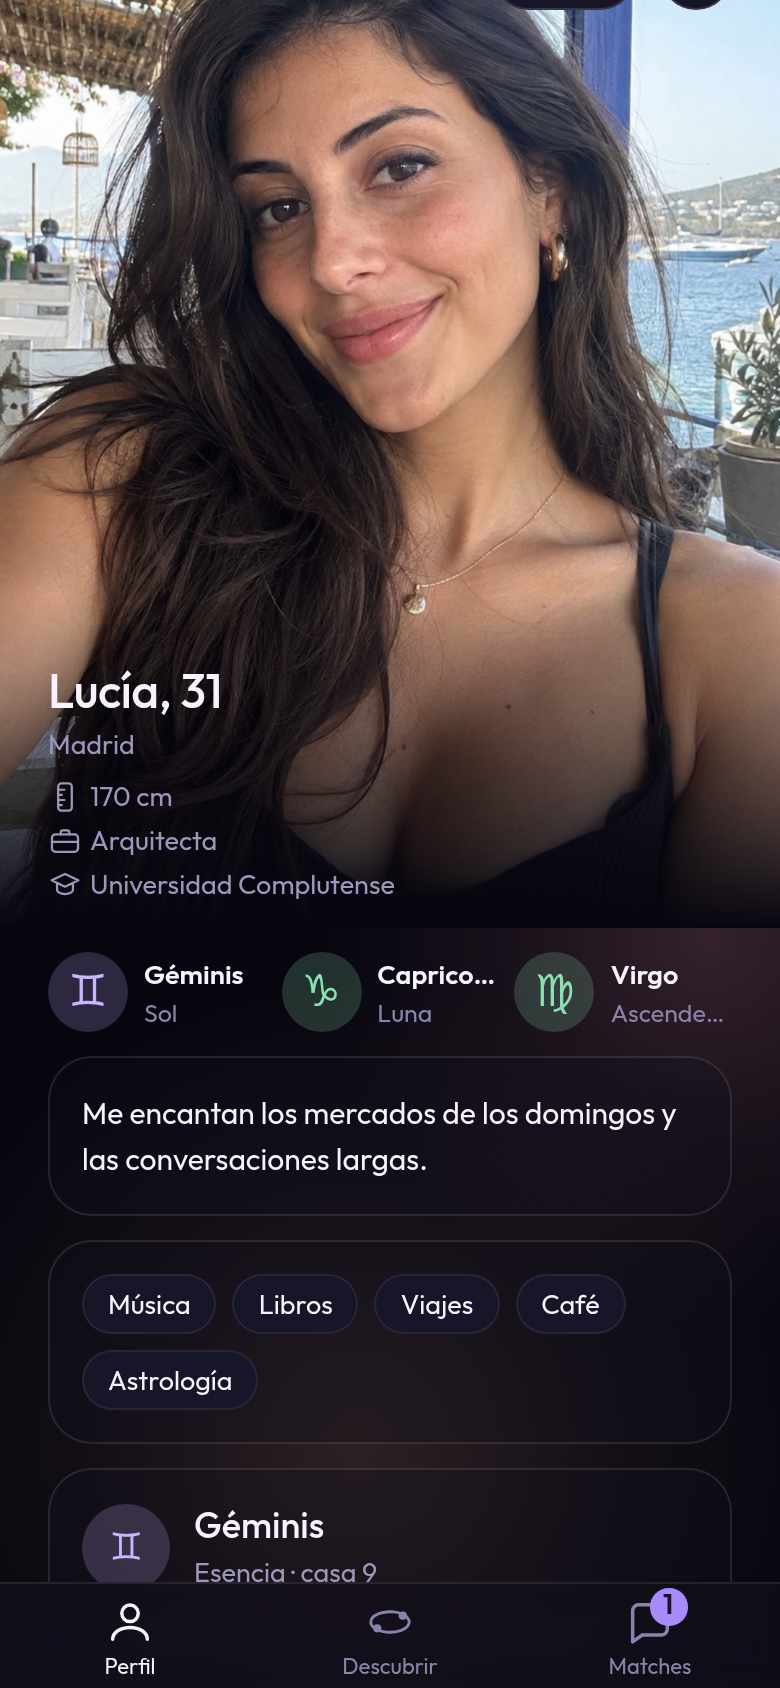
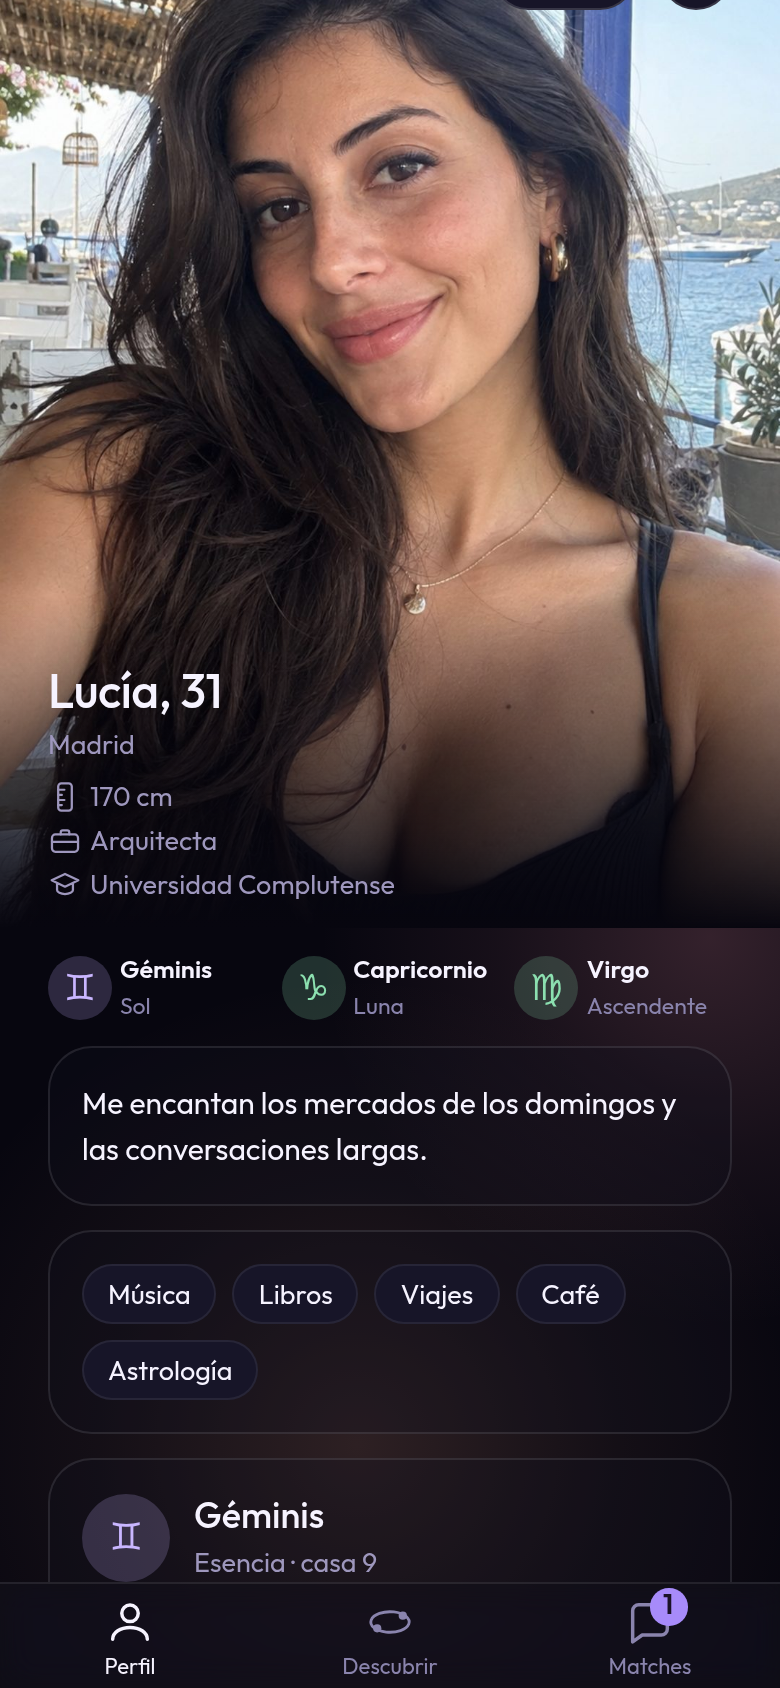
Spanish screenshots with the smaller big-three row; its narrow widths
The English branch now carries the owner's "küçük" row. The profile,
deck and match screenshots are retaken on it, and the notes say where
the Spanish names still end in "…" (360 and 320 wide on the web).

Claude-Session: https://claude.ai/code/session_01XZjkA76vCEAKaMxTNKvqVe

diff --git a/docs/NOTES.md b/docs/NOTES.md
@@ -8687,10 +8687,10 @@ sign-up mail.
   Spanish speaker finds "London" and "Munich" by their GeoNames names but
   not "Londres" or "Múnich". A Spanish list is drafted in the project
   files (`i18n-es/exonyms-es.json`); wiring it is a `geo` change.
-- The big-three row (`BigThreeRow`) cuts "Capricornio" and "Ascendente"
+- The big-three row (`BigThreeRow`) cut "Capricornio" and "Ascendente"
   to "Caprico…" / "Ascende…" on the web, where `adjustsFontSizeToFit` is
-  a no-op; on iOS it shrinks to 0.8, which is not enough for either. The
-  Turkish and English words are shorter. A layout question for the owner.
+  a no-op. Put to the owner as two layouts; he picked "küçük"
+  (2026-09-30) and the English change carries it, merged in here.
 
 ### Battery gaps
 
@@ -8699,3 +8699,10 @@ sign-up mail.
   big-three row above, and the filter's band buttons, where "Equilibrada"
   and "Excepcional" were cut until the band names became "Mixta" and
   "Insólita".
+- With the smaller big-three row, measured with a DOM Range on the web
+  (2026-09-30): the Spanish words fit at 414, 390 and 375 wide. At 360
+  "Capricornio" is about 3 px too wide and ends in "…"; at 320
+  "Capricornio" and "Ascendente" are cut. iPhones are 375 and up, where
+  it fits, and iOS can shrink the text to 0.8 of its size, which is
+  enough at 360. On the web at 360, a common Android width, it is still
+  cut.
